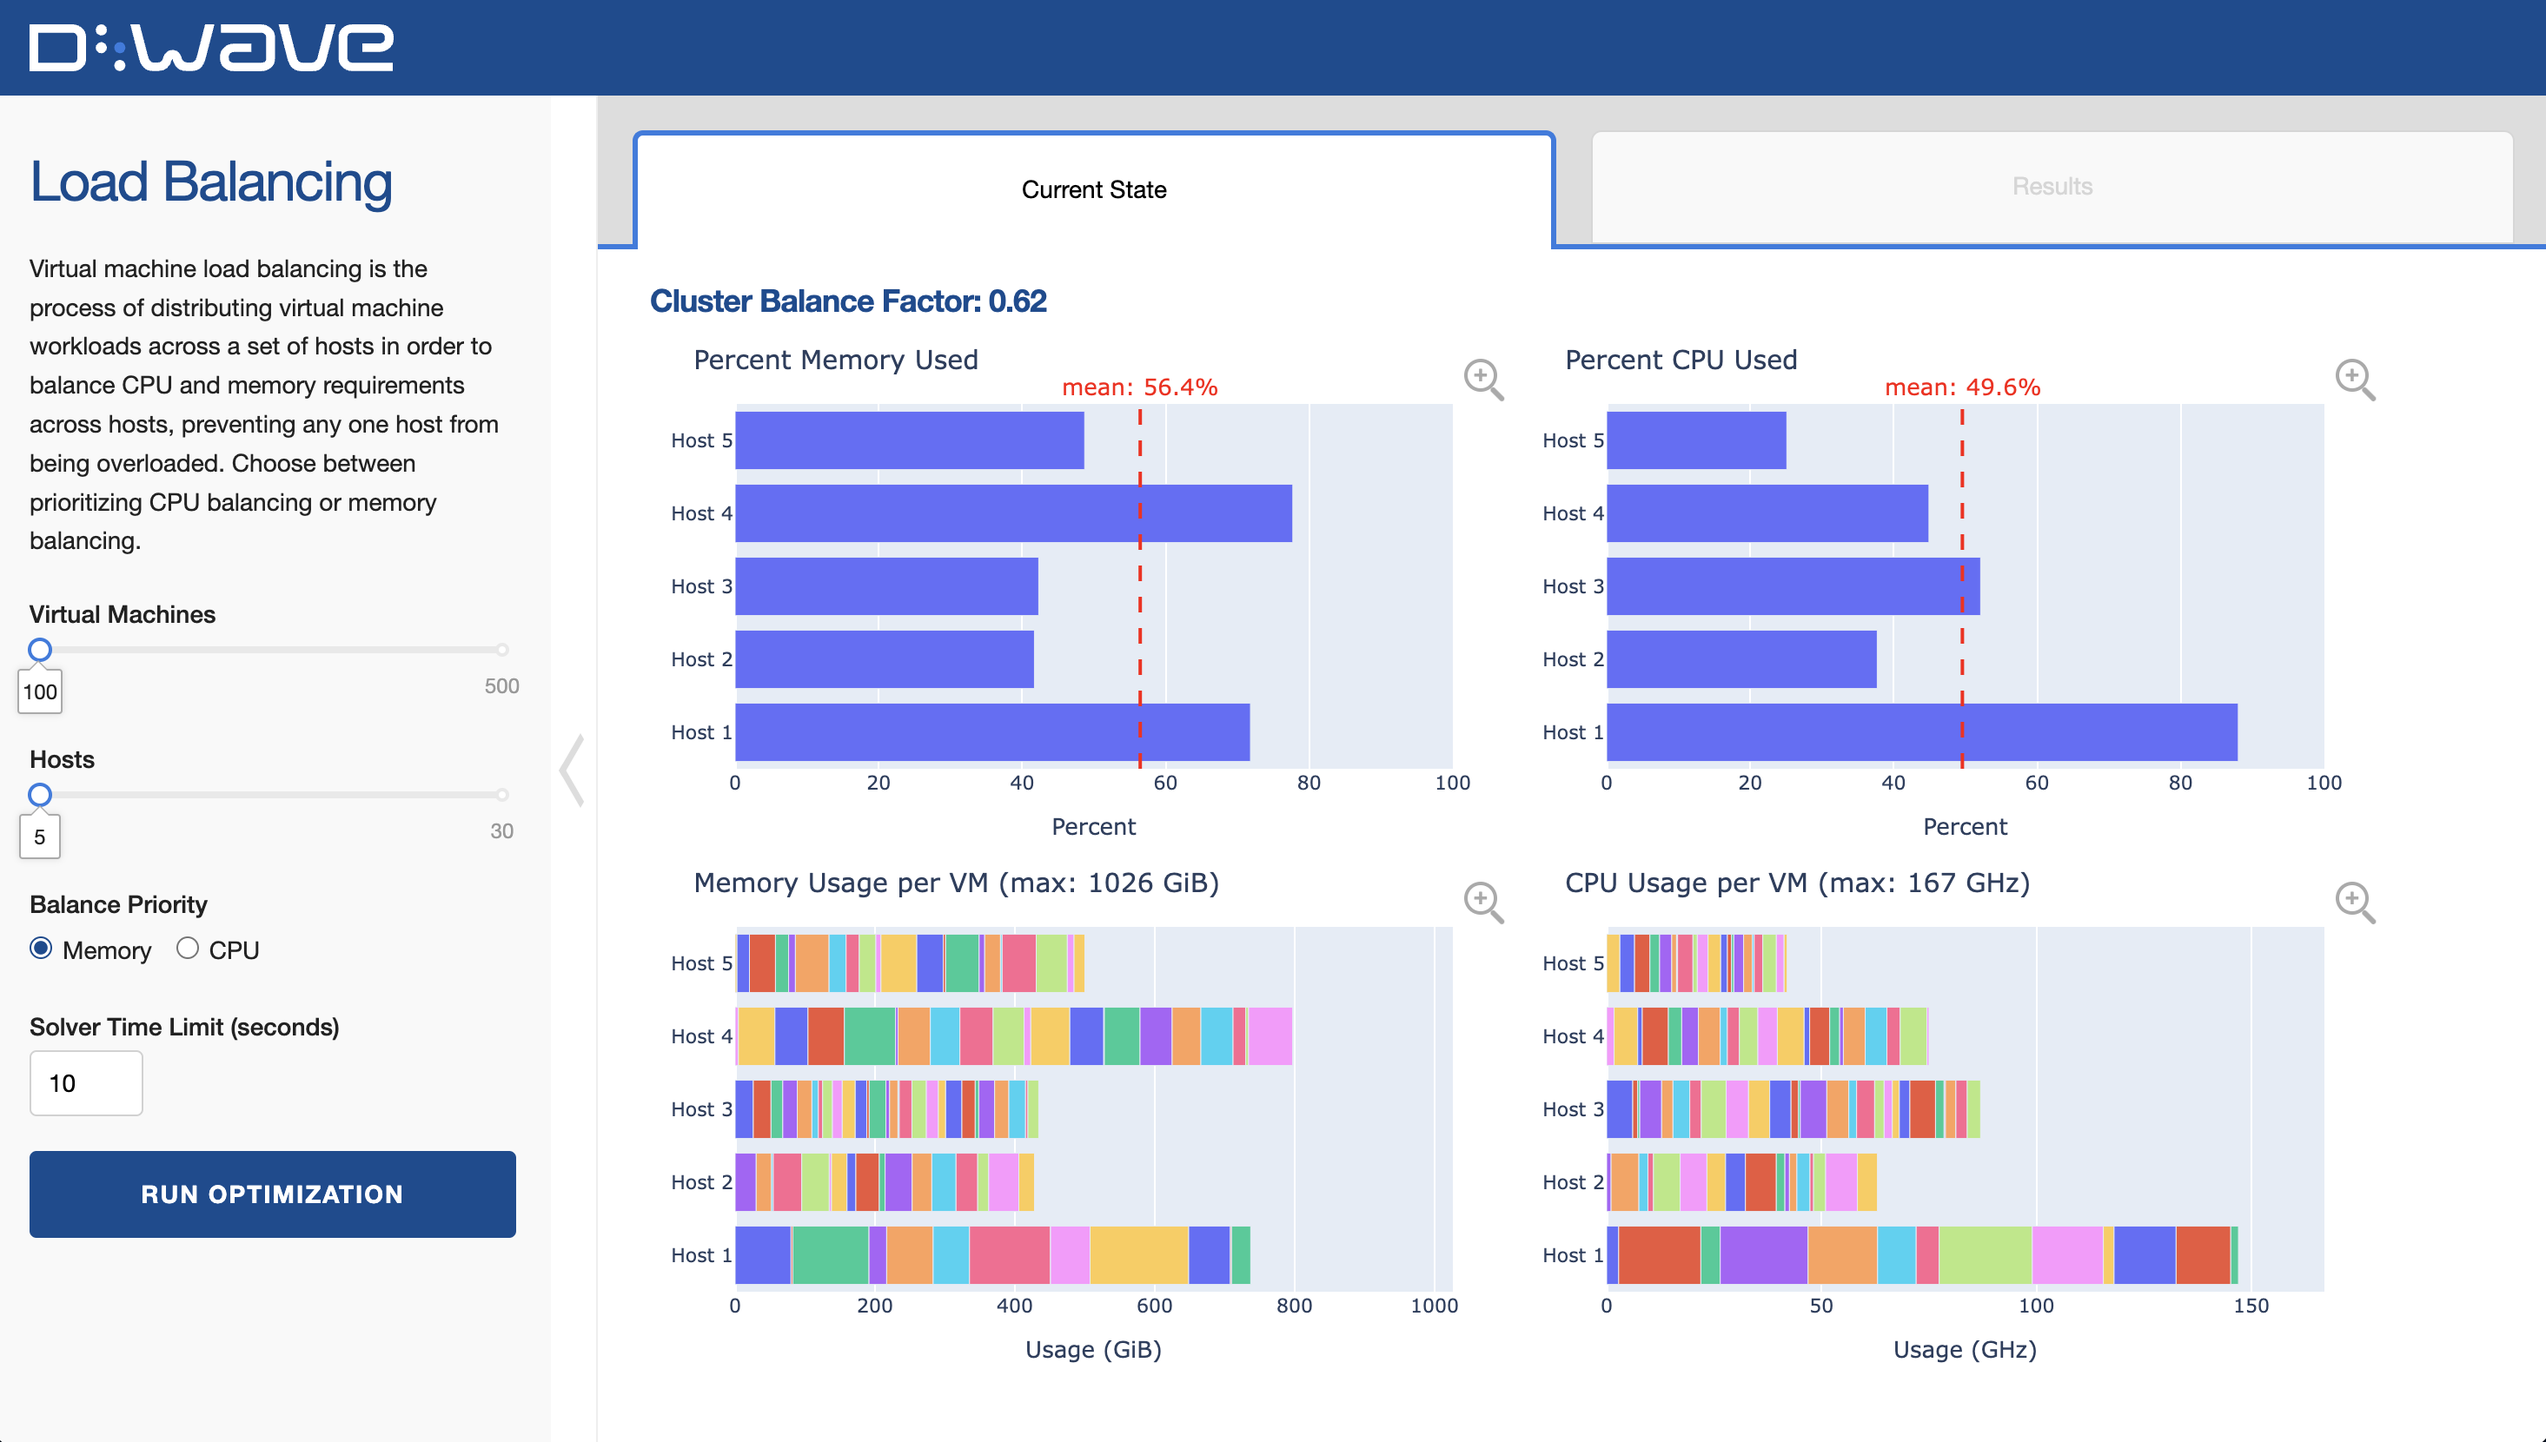
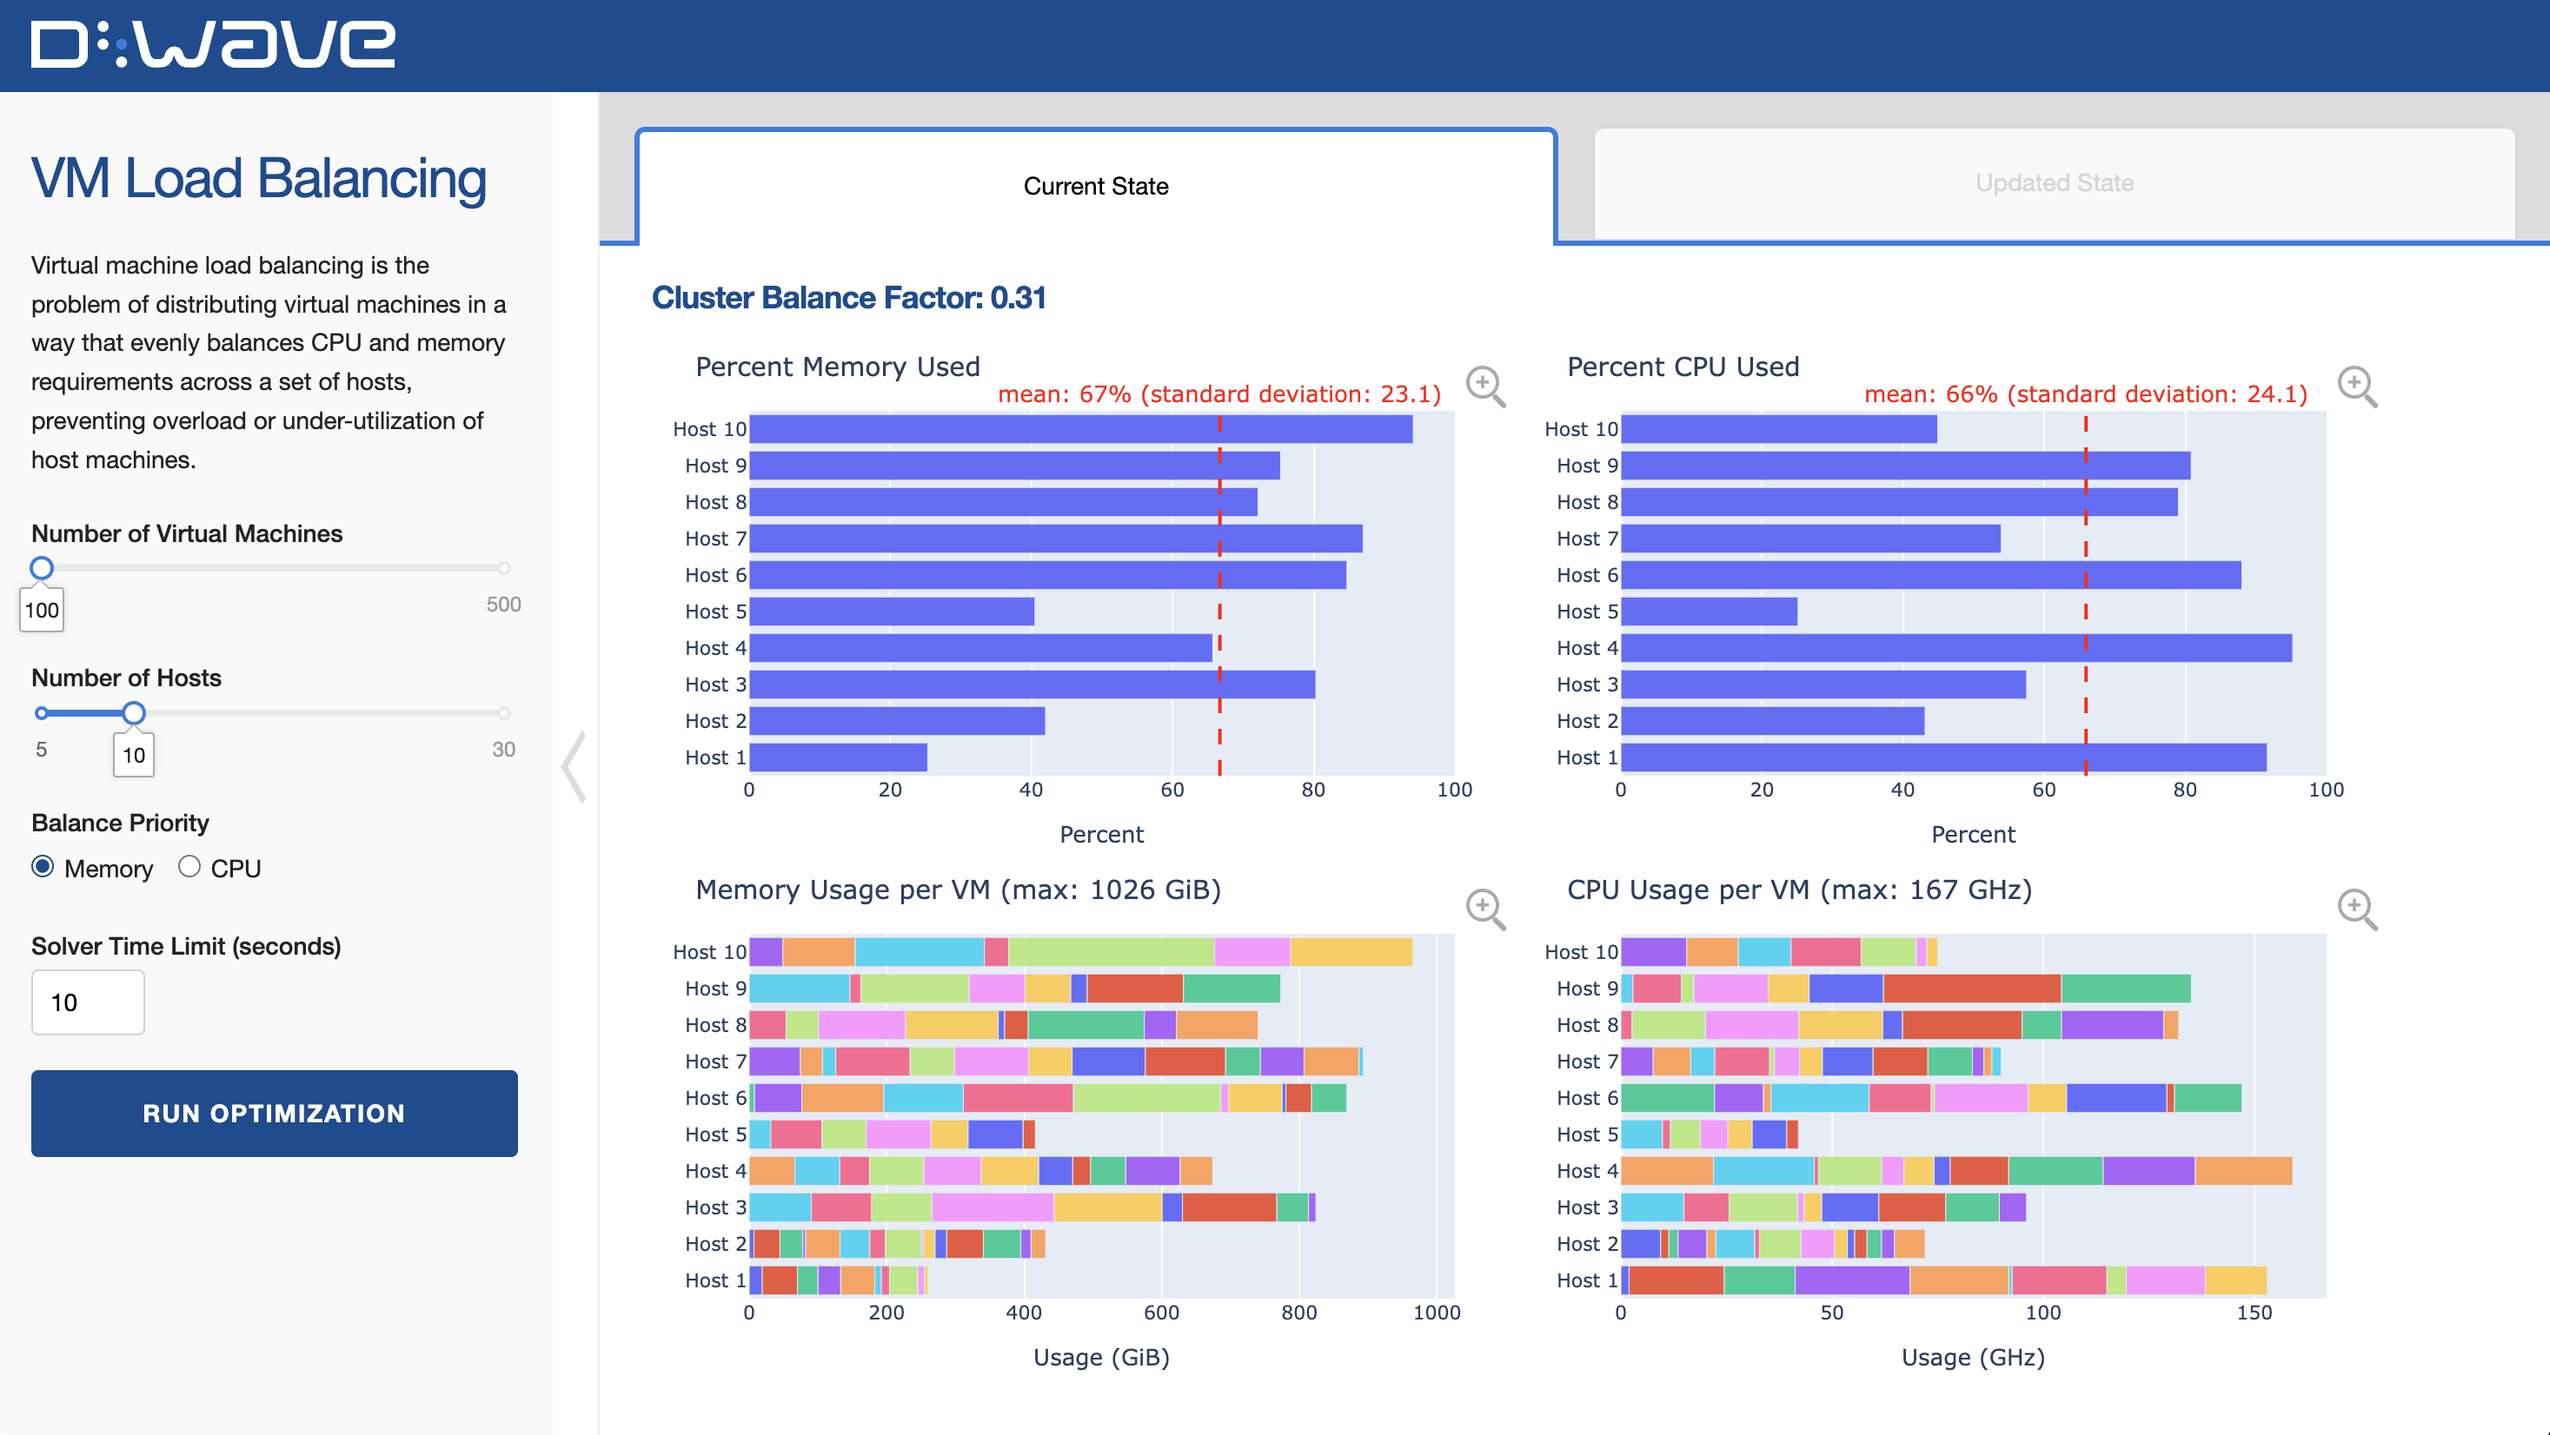
Update demo image, add CBF description

diff --git a/README.md b/README.md
@@ -70,6 +70,11 @@ memory are equally distributed between hosts.
 The `Priority` setting enables you to choose between prioritizing CPU or memory balancing. The
 prioritized resource is set as a hard constraint while the other resource is a soft constraint.
 
+The solution quality can be evaluated by the `cluster balance factor` metric. The cluster balance
+factor is a weighted measure (based on the Priority setting) of how evenly memory and CPU resources
+are distributed across hosts. A higher cluster balance factor (closer to 1) means the system is more
+balanced.
+
 ### Constraints
 #### One Host per Virtual Machine
 Each virtual machine can only be assigned to one host. To accomplish this we use a one-hot
